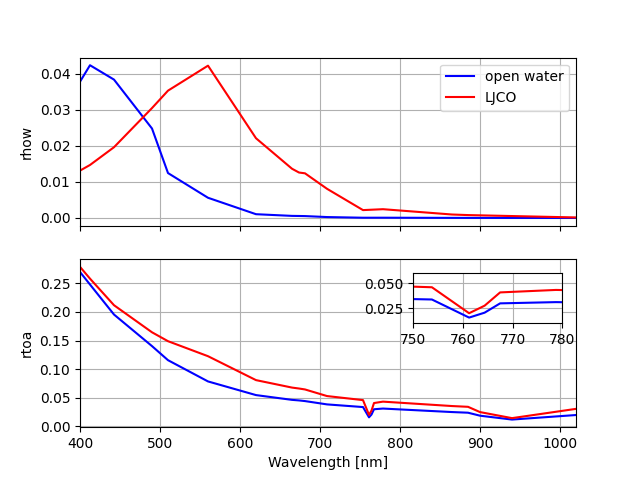
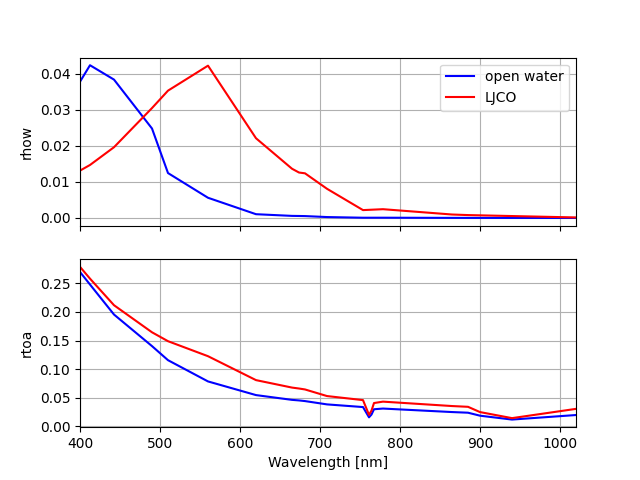
removed inlay, as the dips are unrelated to task

Changed region(s): [[0.5625, 0.5625, 0.9062, 0.7188], [0.8438, 0.6875, 0.9062, 0.7188], [0.625, 0.6875, 0.6562, 0.7188]]

diff --git a/assignment11/spectrum.py b/assignment11/spectrum.py
@@ -34,14 +34,13 @@ ax[0].legend(loc="upper right")
 ax[0].grid()
 ax[0].set_ylabel("rhow")
 
-# Inset-Achse im oberen Plot (ax[0])
-axins = inset_axes(ax[1], width="30%", height="30%", loc="upper right", borderpad=1)
 
-axins.plot(rtoa["Wavelength"], rtoa["open_water"], color='blue')
-axins.plot(rtoa["Wavelength"], rtoa["LJCO"], color='red')
-axins.set_xlim(750, 780)
-axins.set_ylim(0.01, 0.06)
-axins.grid()
+#axins = inset_axes(ax[1], width="30%", height="30%", loc="upper right", borderpad=1)
+#axins.plot(rtoa["Wavelength"], rtoa["open_water"], color='blue')
+#axins.plot(rtoa["Wavelength"], rtoa["LJCO"], color='red')
+#axins.set_xlim(750, 780)
+#axins.set_ylim(0.01, 0.06)
+#axins.grid()
 
 ax[1].plot(rtoa["Wavelength"], rtoa["open_water"], color='blue', label="open water")
 ax[1].plot(rtoa["Wavelength"], rtoa["LJCO"], color='red', label="LJCO")
